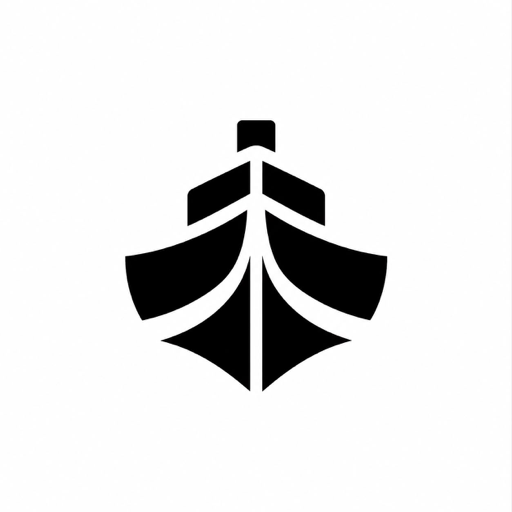
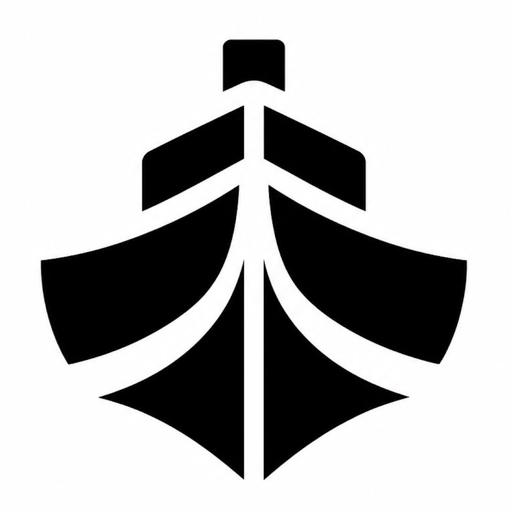
Swap to logo1 mark; tighten and center header

Changed region(s): [[0.0625, 0.0625, 0.9375, 0.9375], [0.375, 0.5625, 0.4062, 0.5938]]

diff --git a/src/components/Logo.tsx b/src/components/Logo.tsx
@@ -4,11 +4,11 @@
 export function LogoMark({ size = 30 }: { size?: number }) {
   return (
     <img
-      src="/brand-mark.jpeg"
+      src="/brand-mark.png"
       alt=""
       width={size}
       height={size}
-      className="rounded-md"
+      className="block"
       aria-hidden="true"
     />
   );
@@ -19,7 +19,7 @@ export function Wordmark({ onDark = false }: { onDark?: boolean }) {
     <span className="inline-flex items-center gap-2">
       <LogoMark />
       <span
-        className={`font-display text-xl font-semibold tracking-tight ${
+        className={`font-display text-xl font-semibold leading-none tracking-tight ${
           onDark ? "text-white" : "text-ink-900"
         }`}
       >

diff --git a/src/app/page.tsx b/src/app/page.tsx
@@ -163,7 +163,7 @@ export default function Home() {
   return (
     <div className="flex min-h-screen flex-col">
       <header className="border-b border-foam-200 bg-white/80 backdrop-blur">
-        <div className="mx-auto flex w-full max-w-2xl items-center justify-between px-5 py-3.5">
+        <div className="mx-auto flex w-full max-w-2xl items-center justify-between px-5 py-2.5">
           <button
             type="button"
             onClick={restart}